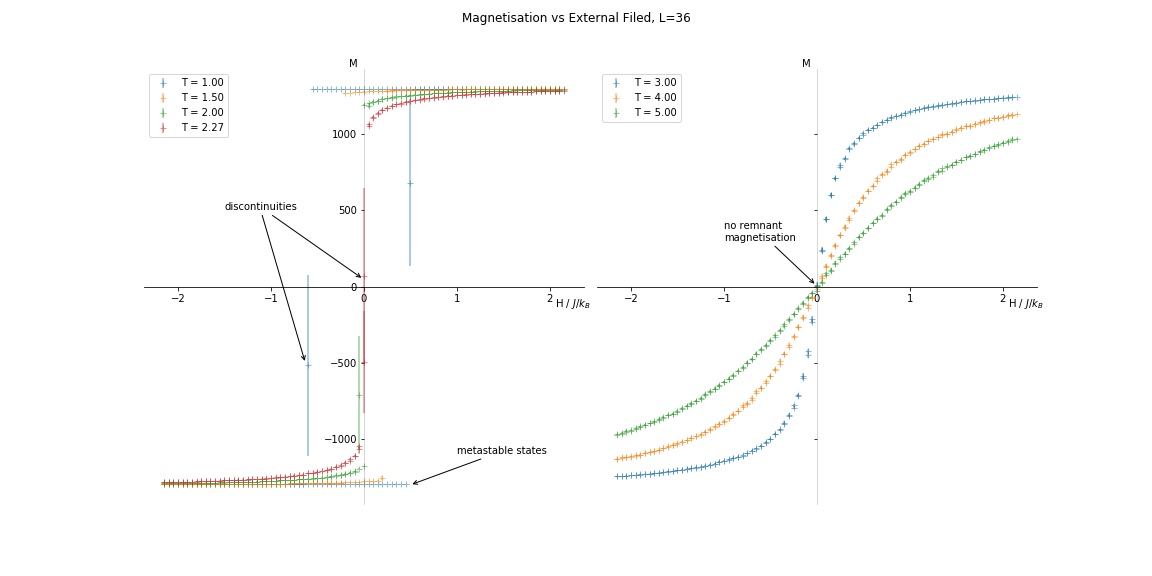
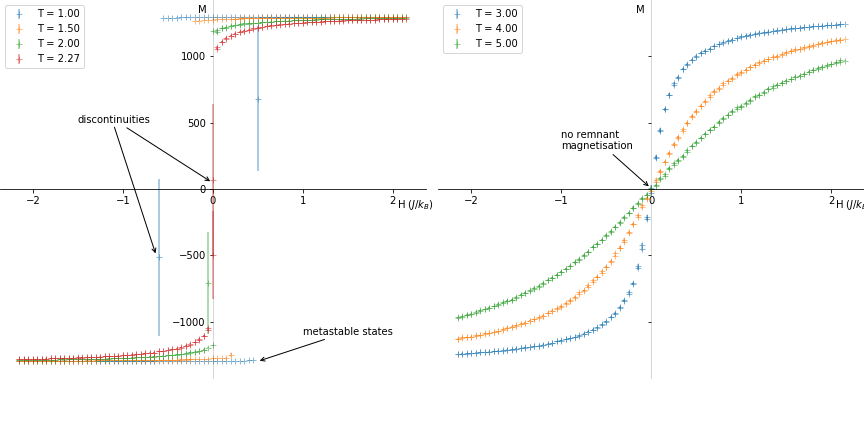
finished

diff --git a/data/magn_field_plots.py b/data/magn_field_plots.py
@@ -26,7 +26,7 @@ def plot_1():
             if T not in p_files_dict:
                 p_files_dict[T] = os.path.join(folder,file)
     #print(p_files_dict)
-    fig, axs = plt.subplots(1,2,figsize=(16,8),sharey=True,gridspec_kw={'hspace': 0, 'wspace': 0.03})
+    fig, axs = plt.subplots(1,2,figsize=(12,6),sharey=True,gridspec_kw={'hspace': 0, 'wspace': 0.03})
     for T in p_files_dict:
         p_file = p_files_dict[T]
         H = []
@@ -43,7 +43,7 @@ def plot_1():
         else:
             axs[1].errorbar(H,M,errM,label="T = "+T[0:4],ls="",marker="+",alpha=0.5)
         #ax.scatter(H,M,alpha=0.5)
-    fig.suptitle(r"Magnetisation vs External Filed, L=36")
+    #fig.suptitle(r"Magnetisation vs External Filed, L=36")
     axs[0].annotate("metastable states",
             xy=(0.5,-1300), xycoords='data',
             xytext=(1,-1100), textcoords='data',
@@ -77,11 +77,11 @@ def plot_1():
         ax.spines['right'].set_color('none')
         ax.spines['top'].set_color('none')
         ax.set_ylabel("M",rotation=0)
-        ax.set_xlabel(r"H / $J/k_B$")
+        ax.set_xlabel(r"H ($J/k_B$)")
         ax.xaxis.set_label_coords(0.975, 0.475)
-        ax.yaxis.set_label_coords(0.475, 1.0)
+        ax.yaxis.set_label_coords(0.475, 0.96)
         ax.legend()
-
+    plt.subplots_adjust(left=0,right=1,top=1)
     fig.savefig(folder2+"magn_vs_field.png")
     fig.savefig(texfolder+"magn_vs_field.pdf")
 
@@ -103,7 +103,7 @@ def plot_2():
             if T not in p_files_dict:
                 p_files_dict[T] = os.path.join(folder,file)
     #print(p_files_dict)
-    fig, axs = plt.subplots(1,2,figsize=(16,8),sharey=True,gridspec_kw={'hspace': 0, 'wspace': 0.03})
+    fig, axs = plt.subplots(1,2,figsize=(12,6),sharey=True,gridspec_kw={'hspace': 0, 'wspace': 0.03})
     for T in p_files_dict:
         p_file = p_files_dict[T]
         H = []
@@ -120,7 +120,7 @@ def plot_2():
         else:
             axs[1].errorbar(H,E,errE,label="T = "+T[0:4],ls="",marker="+",alpha=0.5)
         #ax.scatter(H,E,alpha=0.5)
-    fig.suptitle(r"Energy vs External Filed, L=36")
+    #fig.suptitle(r"Energy vs External Filed, L=36")
     axs[0].annotate("metastable\n states",
             xy=(0.4,-2000), xycoords='data',
             xytext=(-1.5,-1000), textcoords='data',
@@ -148,10 +148,11 @@ def plot_2():
         ax.spines['right'].set_color('none')
         ax.spines['top'].set_color('none')
         ax.set_ylabel("E",rotation=0)
-        ax.set_xlabel(r"H / $J/k_B$")
+        ax.set_xlabel(r"H ($J/k_B$)")
         #ax.xaxis.set_label_coords(0.975, 0.475)
-        ax.yaxis.set_label_coords(0.475, 1.0)
+        ax.yaxis.set_label_coords(0.475, 0.96)
         ax.legend()
+    plt.subplots_adjust(left=0,right=1,top=1)
     fig.savefig(folder2+"energy_vs_field.png")
     fig.savefig(texfolder+"energy_vs_field.pdf")
 

diff --git a/data/heat_plots.py b/data/heat_plots.py
@@ -26,30 +26,32 @@ def plot_1():
     """
     heat vs temperature with different L's
     """
-    p_files = []
+    p_files_dict = {}
     dim = 2
+    L_list = []
     for file in sorted(os.listdir(folder)):
         if file.endswith(".txt") and not file.endswith(").txt") and file.startswith("heat_data"):
-            p_files.append(os.path.join(folder,file))
-
-    L_list = []
+            L = int((os.path.splitext(os.path.basename(file))[0]).split('_',3)[3])
+            p_files_dict[L] = os.path.join(folder,file)
+            L_list.append(L)
+    #print(p_files_dict)
+    L_list.sort()
     fig, ax = plt.subplots()
     ax.axvline(2.2692, label="$T_c$", linestyle="--",color="k",alpha=0.7)
     marker = itertools.cycle(('*', '+', '.', ',', 'o'))
-    for p_file in p_files:
-        L = (os.path.splitext(os.path.basename(p_file))[0]).split('_',3)[3]
+    for L in L_list:
+        p_file = p_files_dict[L]
+        print(L,p_file)
         avgC = []
         errC = []
         T = []
-        if (L not in L_list):
-            L_list.append(L)
-            with open(p_file) as csvfile:
-                lines = csv.reader(csvfile, delimiter=' ')
-                for row in lines:
-                    T.append(float(row[0]))
-                    avgC.append(float(row[1]))
-                    errC.append(float(row[2]))
-            ax.errorbar(T, avgC, errC, ls='',marker = next(marker), label="L = "+str(L))
+        with open(p_file) as csvfile:
+            lines = csv.reader(csvfile, delimiter=' ')
+            for row in lines:
+                T.append(float(row[0]))
+                avgC.append(float(row[1]))
+                errC.append(float(row[2]))
+        ax.errorbar(T, avgC, errC, ls='',marker = next(marker), label="L = "+str(L))
 
     #ax.set_title("Heat capacity vs Temperature")
     ax.spines['right'].set_color('none')
@@ -184,8 +186,8 @@ def plot_2():
 
 
 def main():
-    #plot_1()
-    plot_2()
+    plot_1()
+    #plot_2()
     plt.show()
 
 if (__name__ == '__main__'):

diff --git a/data/n2n_plots.py b/data/n2n_plots.py
@@ -26,8 +26,9 @@ def plot_1():
                 p_files_dict[R] = os.path.join(folder,file)
     R_list.sort()
     #print(R_list)
-    fig, ax = plt.subplots(figsize=(12,8))
-    fig1, ax1 = plt.subplots(figsize=(12,8))
+    fig, ax = plt.subplots()
+    #fig1, ax1 = plt.subplots(figsize=(12,8))
+    ax.axvline(2.2692, label="$T_c$", linestyle="--",color="k",alpha=0.7)
     for key in R_list:
         p_file = p_files_dict[key]
         M = []
@@ -44,9 +45,15 @@ def plot_1():
                 E.append(float(row[3]))
                 errE.append(float(row[4]))
         ax.errorbar(T,M,errM,label="R = "+str(key),ls=" ",marker="+")
-        ax1.errorbar(T,E,errE,label="R = "+str(key),ls=" ",marker="+")
+        #ax1.errorbar(T,E,errE,label="R = "+str(key),ls=" ",marker="+")
+    ax.set_ylabel("m")
+    ax.set_xlabel(r"T ($J/k_B$)")
+    ax.spines['right'].set_color('none')
+    ax.spines['top'].set_color('none')
+    plt.subplots_adjust(right=1,top=1)
     ax.legend()
-    ax1.legend()
+    fig.savefig(folder2+"n2n_magn_vs_temp.png")
+    fig.savefig(texfolder+"n2n_magn_vs_temp.pdf")
 
 
 def main():

diff --git a/data/chi_plots.py b/data/chi_plots.py
@@ -61,7 +61,7 @@ def plot_1():
         56:[8,-10],
         64:[3,-5]
     }
-    L_plot = 64
+    L_plot = 0
     for key in limits:
         p_file = p_files_dict[key]
         avgChi = []
@@ -94,6 +94,7 @@ def plot_1():
         T_c_N_err_list.append(np.sqrt(np.diag(pcov)[0]))
 
     fig3, ax3 = plt.subplots()
+    plt.subplots_adjust(right=1,top=1)
     ax3.errorbar(L_list, T_c_N_list, T_c_N_err_list,ls="",marker='+')
     popt3, pcov3 = curve_fit(for_T_c_fun, L_list, T_c_N_list, sigma=T_c_N_err_list, absolute_sigma=True, maxfev=5000, p0=[2.26,1,1], bounds=((0,-np.inf,0.000001),(np.inf,np.inf,np.inf)))
     x3 = np.linspace(L_list[0],L_list[-1],100)
@@ -101,6 +102,8 @@ def plot_1():
     #ax3.set_title(r"$T_c$(L) vs L")
     ax3.set_ylabel(r"$T_c$(L) (J/$k_B$)")
     ax3.set_xlabel("L")
+    ax3.spines['right'].set_color('none')
+    ax3.spines['top'].set_color('none')
     print(popt3,np.sqrt(np.diag(pcov3)))
     print("T_c calculated = ",popt3[0],"+-",np.sqrt(np.diag(pcov3)[0]))
     print("T_c onsager = ",T_c_inf)

diff --git a/metropolis.cpp b/metropolis.cpp
@@ -193,7 +193,7 @@ void metropolis_function(double Temp, int cycles) {
     for(int r=0; r<cycles; r++){
         for(int k = 0; k<N; k++){
             //randomly select a site
-            index = rand()%N; // RAND_MAX = 32767 which limits the code to L = 181.
+            index = rand()%N; // RAND_MAX = 32767 which limits the code to L = 181 for 2D
             //measure energy difference before flip
             de = compute_denergy(index);
             //flip if the right condition is met
